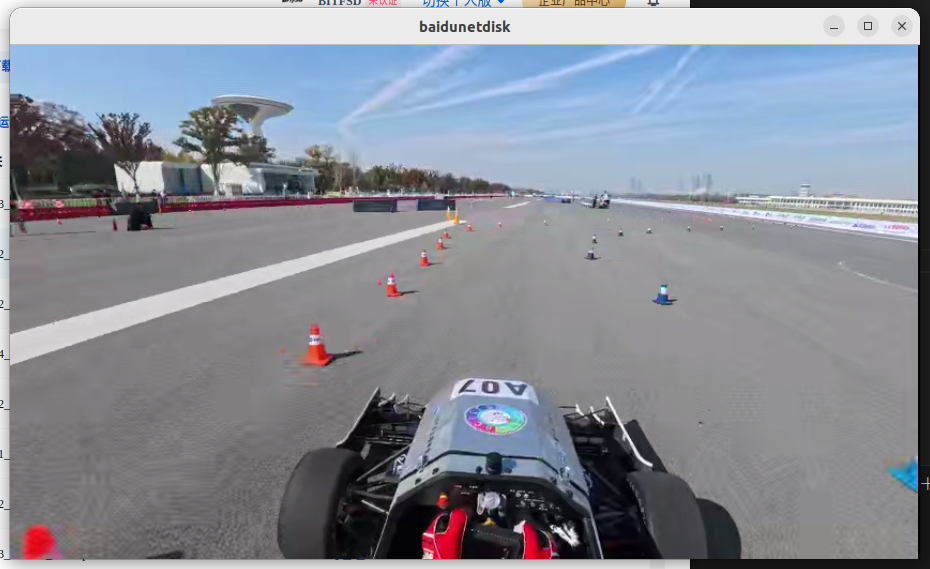
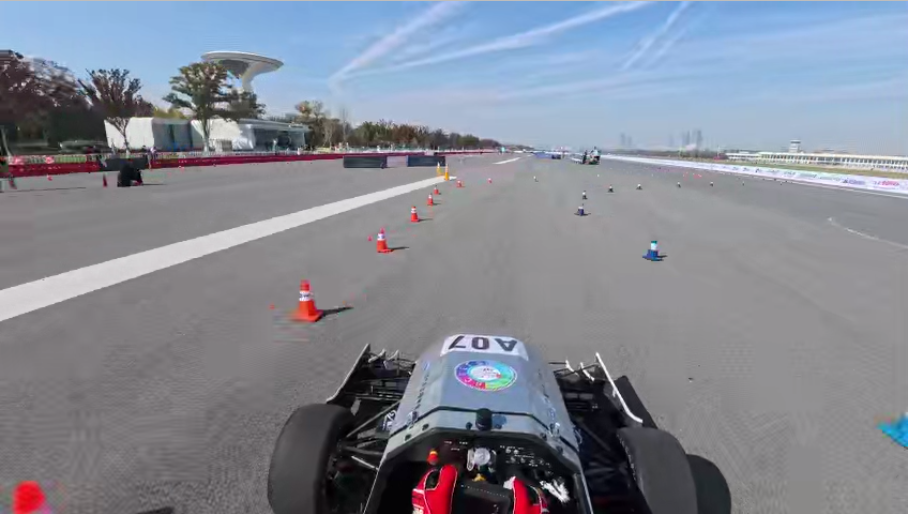
add git-keep

diff --git a/weight/onnx_infer.cpp b/weight/onnx_infer.cpp
@@ -14,7 +14,7 @@ struct Detection {
 
 class YOLO11Detector {
 public:
-    YOLO11Detector(const std::string& modelPath, float confThreshold = 0.25f, float iouThreshold = 0.45f)
+    YOLO11Detector(const std::string& modelPath, float confThreshold = 0.35f, float iouThreshold = 0.45f)
         : confThreshold_(confThreshold), iouThreshold_(iouThreshold) {
 
         // 初始化 ONNX Runtime
@@ -77,8 +77,8 @@ private:
     Ort::Session session_{nullptr};
     std::string inputName_;
     std::string outputName_;
-    int64_t inputWidth_ = 640;
-    int64_t inputHeight_ = 640;
+    int64_t inputWidth_ = 960;
+    int64_t inputHeight_ = 960;
     float confThreshold_;
     float iouThreshold_;
 
